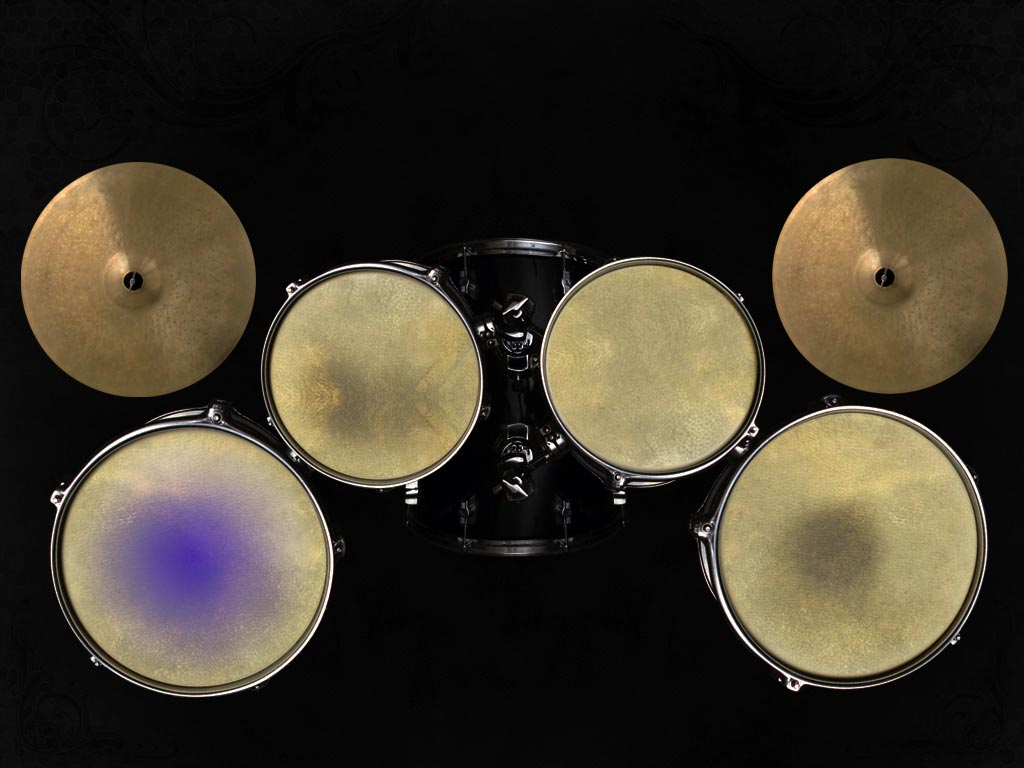
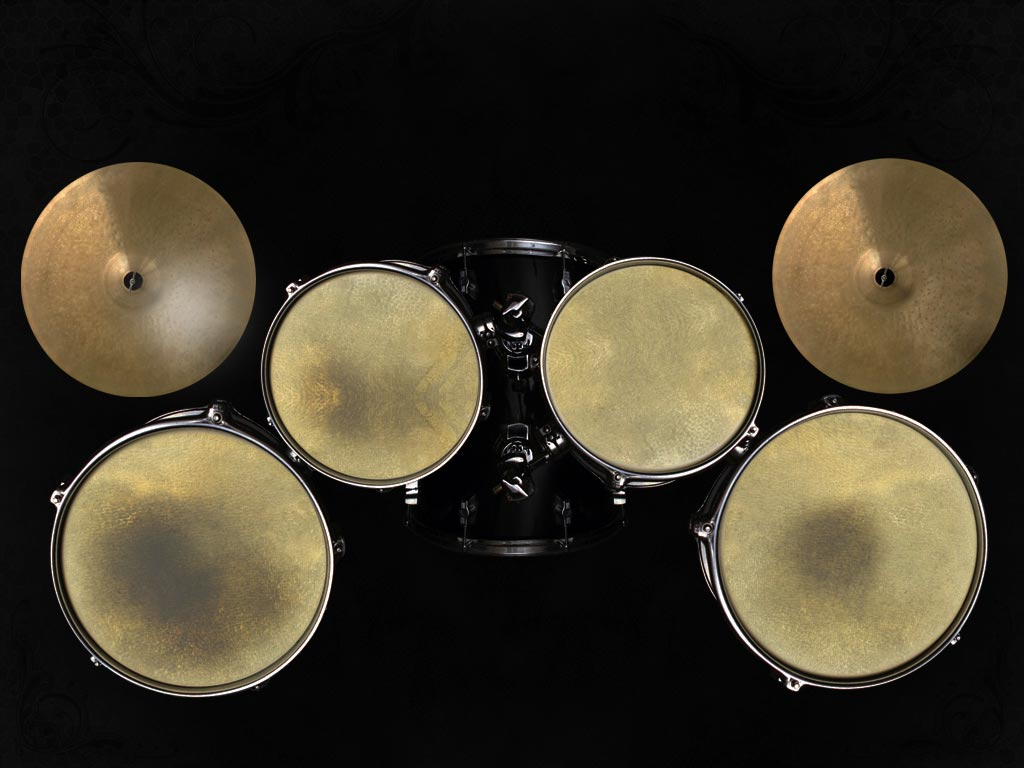
Added two images

Changed region(s): [[0.0625, 0.5625, 0.3125, 0.875], [0.125, 0.3125, 0.25, 0.4688]]

diff --git a/Practical 3 Template/Drumming.cs b/Practical 3 Template/Drumming.cs
@@ -18,16 +18,21 @@ namespace Practical_3_Template
         public Drumming()
         {
             // Fill the arrays with references to the sound and image locations
-            drumSound[1].SoundLocation = "Sounds/LowTom.wav";
-            drumSound[2].SoundLocation = "Sounds/Bass.wav";
+            drumSound[1].SoundLocation = "Sounds/OpenHiHat.wav";
+            drumSound[2].SoundLocation = "Sounds/LowTom.wav";
             drumSound[3].SoundLocation = "Sounds/Snare.wav";
-            drumSound[4].SoundLocation = "Sounds/OpenHiHat.wav";
+            drumSound[4].SoundLocation = "Sounds/Snare.wav";
+            drumSound[5].SoundLocation = "Sounds/Bass.wav";
+            drumSound[6].SoundLocation = "Sounds/OpenHiHat.wav";
+            
 
             drumKit[0] = Image.FromFile("Images/drumkit0.jpg", true);
             drumKit[1] = Image.FromFile("Images/drumkit1.jpg", true);
             drumKit[2] = Image.FromFile("Images/drumkit2.jpg", true);
             drumKit[3] = Image.FromFile("Images/drumkit3.jpg", true);
             drumKit[4] = Image.FromFile("Images/drumkit4.jpg", true);
+            drumKit[3] = Image.FromFile("Images/drumkit5.jpg", true);
+            drumKit[4] = Image.FromFile("Images/drumkit6.jpg", true);
         }
 
         public void Update(float dt)
@@ -36,14 +41,18 @@ namespace Practical_3_Template
             if (Math.Round(Globals.WiiMote.WiimoteState.AccelState.Values.Z) > 1)
             {
                 // Check which button is being pressed
-                if (Globals.WiiMote.WiimoteState.ButtonState.A)
+                if (Globals.WiiMote.WiimoteState.ButtonState.Left)
                     selectedKit = 1;
-                else if(Globals.WiiMote.WiimoteState.ButtonState.B)
+                if (Globals.WiiMote.WiimoteState.ButtonState.A)
                     selectedKit = 2;
-                else if(Globals.WiiMote.WiimoteState.ButtonState.Left)
+                else if(Globals.WiiMote.WiimoteState.ButtonState.Up)
                     selectedKit = 3;
-                else if (Globals.WiiMote.WiimoteState.ButtonState.Right)
+                else if (Globals.WiiMote.WiimoteState.ButtonState.Down)
                     selectedKit = 4;
+                else if (Globals.WiiMote.WiimoteState.ButtonState.B)
+                    selectedKit = 5;
+                else if (Globals.WiiMote.WiimoteState.ButtonState.Right)
+                    selectedKit = 6;
 
                 // Play the corresponding drumkit
                 if(selectedKit != 0)
